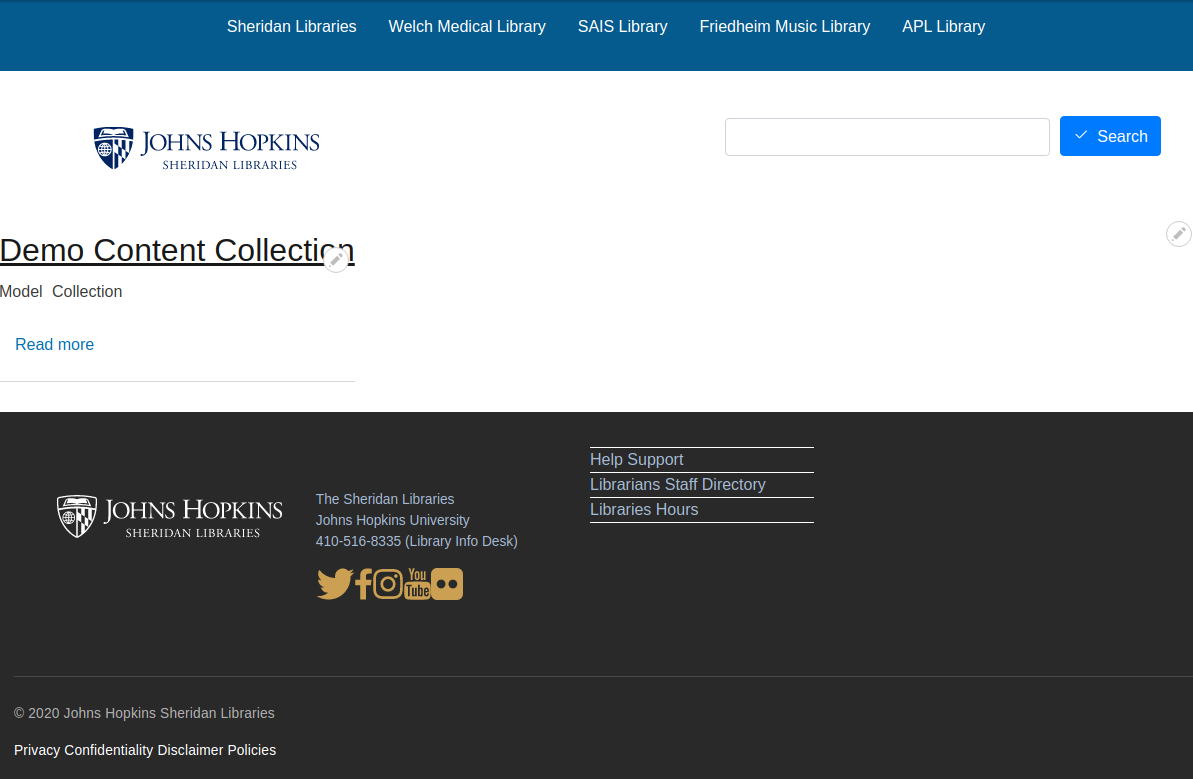
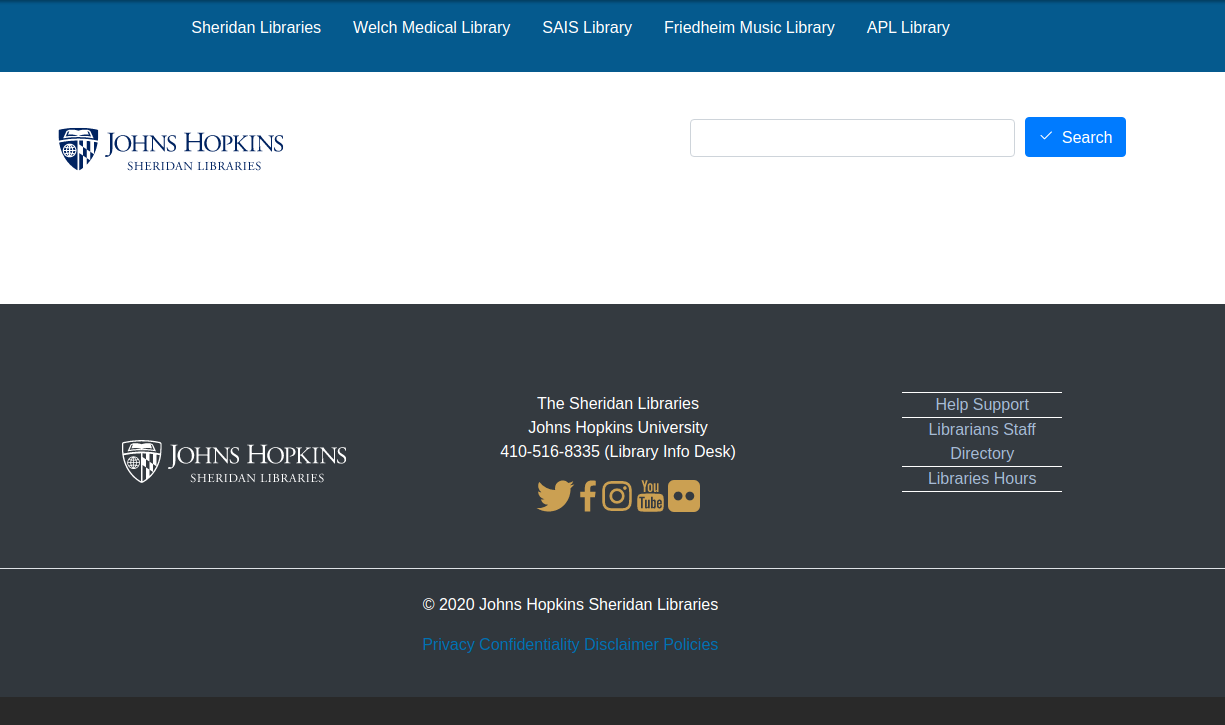
Footer and screenshot

diff --git a/css/style.css b/css/style.css
@@ -56,6 +56,10 @@
   height: 8rem;
 }
 
+#social-media a img {
+  height: 2rem;
+}
+
 #block-idc-ui-theme-boots-main-menu .navbar {
   flex-direction: row;
 }
@@ -78,6 +82,6 @@
   color: #fff;
 }
 
-.footer {
+footer p {
   color: #fff;
 }
